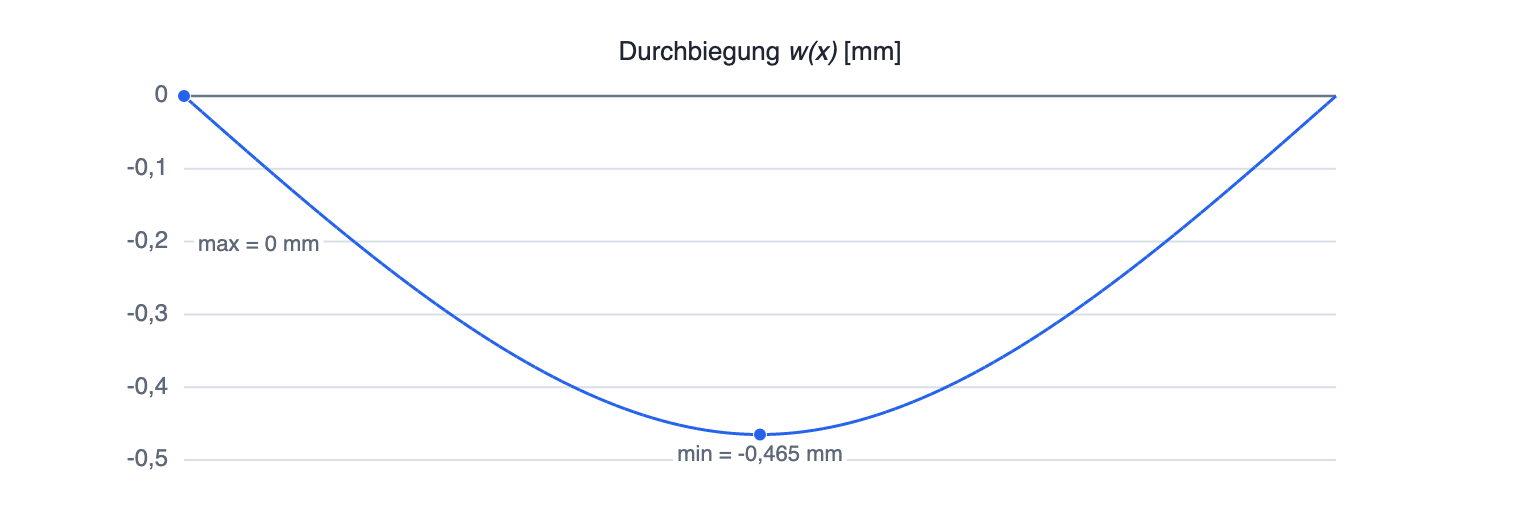
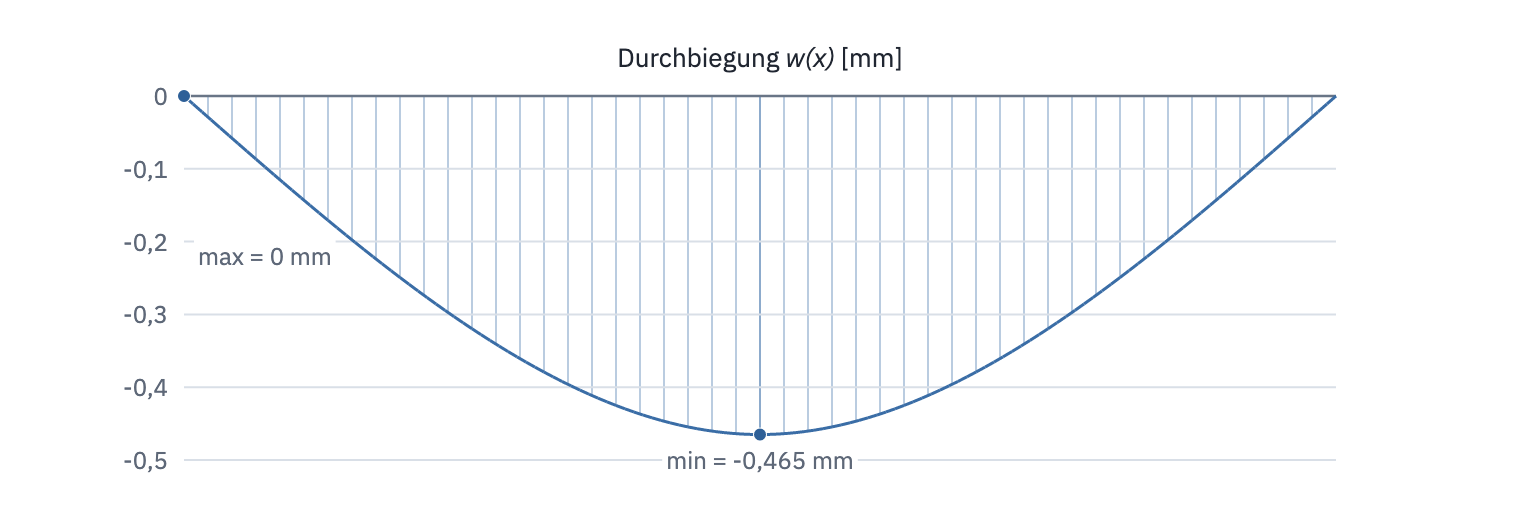
feat: add evenly spaced hatching to result diagrams

diff --git a/tests/SpanDraft.Tests/DesktopResultDiagramControlTests.cs b/tests/SpanDraft.Tests/DesktopResultDiagramControlTests.cs
@@ -25,6 +25,64 @@ namespace SpanDraft.Tests;
 [Collection("Schematic text")]
 public sealed class DesktopResultDiagramControlTests
 {
+    [Theory]
+    [InlineData(new double[] { 2, -2 }, 2)]
+    [InlineData(new double[] { 2, -2, 3, -1 }, 4)]
+    [InlineData(new double[] { 2, 0, 0, -2, 0 }, 2)]
+    [InlineData(new double[] { 0, 1e-10, -1e-10 }, 0)]
+    [InlineData(new double[] { -1, -3, -2 }, 1)]
+    public void SignedRegionsCutAtZeroAndGenerateContainedVerticalVectorHatching(double[] values, int count)
+    {
+        var points = values.Select((value, index) => new ResultDiagramPoint(Length.FromMeters(index),
+            EvaluationSide.Right, value * 1000, new Point(index * 24, 100 - value * 10), value)).ToArray();
+        var regions = ResultDiagramRegions.Create(points, 100);
+        Assert.Equal(count, regions.Count);
+        foreach (var region in regions)
+        {
+            Assert.All(region.Points, point => Assert.True(point.SiValue == 0 || Math.Sign(point.SiValue) == region.Sign));
+            Assert.Equal(region.Points.Max(p => Math.Abs(p.SiValue)), Math.Abs(region.Extremum.SiValue));
+            var lines = ResultDiagramRegions.Hatch(region, 100).ToArray();
+            Assert.NotEmpty(lines);
+            foreach (var (start, end) in lines)
+            {
+                Assert.Equal(start.X, end.X); Assert.Equal(100, start.Y);
+                Assert.InRange(end.X, region.Points[0].Screen.X, region.Points[^1].Screen.X);
+                Assert.True(region.Sign > 0 ? end.Y < 100 : end.Y > 100);
+            }
+        }
+        for (int i = 1; i < regions.Count; i++)
+        {
+            Assert.Equal(regions[i - 1].Points[^1].Screen, regions[i].Points[0].Screen);
+            Assert.Equal(100, regions[i].Points[0].Screen.Y);
+        }
+        if (values.SequenceEqual(new double[] { 2, -2 })) Assert.Equal(12, regions[0].Points[^1].Screen.X);
+    }
+
+    [Fact]
+    public void SectionsOnEitherSideOfJumpNeverShareHatchingAndOneSidedScaleStopsAtZero()
+    {
+        ResultDiagramPoint P(double x, double value) => new(Length.FromMeters(x), EvaluationSide.Right, value,
+            new Point(x * 24, 100 - value * 10), value);
+        var left = Assert.Single(ResultDiagramRegions.Create(new[] { P(0, 2), P(1, 3) }, 100));
+        var right = Assert.Single(ResultDiagramRegions.Create(new[] { P(1, -1), P(2, -2) }, 100));
+        Assert.All(ResultDiagramRegions.Hatch(left, 100), line => Assert.True(line.End.Y < 100));
+        Assert.All(ResultDiagramRegions.Hatch(right, 100), line => Assert.True(line.End.Y > 100));
+        Assert.Equal(0, new ResultDiagramScale(0, 173, 0, 160).LowerTickIndex);
+        Assert.Equal(0, new ResultDiagramScale(-173, 0, 0, 160).UpperTickIndex);
+    }
+
+    [Fact]
+    public void MomentRoundoffAtSupportDoesNotReserveAnEmptyOppositeSignTickInterval()
+    {
+        var document = ReportTestProjects.Create().Document;
+        var result = BeamAnalysis.Analyze(document.ToBeamModel());
+        var presentation = AnalysisPresentationState.FromOutcome(result);
+        var layout = new BeamLayoutState().Update(document, 800, 240)!.Layout;
+        var plot = ResultDiagramProjection.Create(presentation.Result!.Solution, ResultDiagramKind.BendingMoment, layout, 36, 160);
+        Assert.Equal(0, plot.Scale.LowerTickIndex);
+        Assert.Equal(0, plot.Scale.Minimum);
+        Assert.True(plot.Markers.Max(m => m.SiValue) > 0);
+    }
     private static EditorDocument Document() => new(Length.FromMeters(1), ProjectTemplates.Material, ProjectTemplates.Section,
         [new(Guid.NewGuid(), Length.FromMeters(0), SupportType.Fixed, "A")],
         [new EditorPointForce(Guid.NewGuid(), Length.FromMeters(.5), Force.FromNewtons(-1000), "F1")]);
@@ -74,7 +132,7 @@ public sealed class DesktopResultDiagramControlTests
         using (var context = drawing.Open()) diagram.Render(context);
         var dots = drawing.Children.OfType<GeometryDrawing>()
             .Where(d => d.Geometry?.Bounds.Size == new Size(6, 6)).ToArray();
-        Assert.True(diagram.Projection.Markers.Count == dots.Length,
+        Assert.True(diagram.Projection.Markers.Select(m => m.Screen).Concat(diagram.Regions.Select(r => r.Extremum.Screen)).Distinct().Count() == dots.Length,
             string.Join(", ", drawing.Children.TakeLast(6).Select(d => d is GeometryDrawing geometry
                 ? $"{geometry.Geometry?.GetType().Name}: {geometry.Geometry?.Bounds}" : d.GetType().Name)));
         foreach (var marker in diagram.Projection.Markers)

diff --git a/src/SpanDraft.Desktop/Controls/ResultDiagram.cs b/src/SpanDraft.Desktop/Controls/ResultDiagram.cs
@@ -31,8 +31,10 @@ public sealed class ResultDiagram : Control
     public double MarkerFontSize { get => GetValue(MarkerFontSizeProperty); set => SetValue(MarkerFontSizeProperty, value); }
     public ResultDiagramProjection? Projection { get; private set; }
     public IReadOnlyList<ResultDiagramMarkerLabel> MarkerLabels { get; private set; } = [];
+    internal IReadOnlyList<ResultDiagramRegion> Regions { get; private set; } = [];
     private double SecondarySize => AppTypography.Size("SecondarySize");
     private double BodySize => AppTypography.Size("BodySize");
+    private IEnumerable<Point> MarkerPoints => (Projection?.Markers.Select(m => m.Screen) ?? []).Concat(Regions.Select(r => r.Extremum.Screen)).Distinct();
     private ResultPresentationOptions Options => Presentation?.Options ?? ResultPresentationOptions.Default;
     public string Title => TitleText.PlainText;
     public TechnicalText TitleText => (Kind switch
@@ -67,6 +69,7 @@ public sealed class ResultDiagram : Control
                 Projection = Presentation?.Result is { } result && StationLayout is { } layout
                     && Bounds.Width > 0 && Bounds.Height > 48
                     ? ResultDiagramProjection.Create(result.Solution, Kind, layout, 36, Bounds.Height - 48, Options.Profile) : null;
+            Regions = Projection is { } p ? p.Sections.SelectMany(section => ResultDiagramRegions.Create(section, p.Scale.ZeroY)).ToArray() : [];
             _projectedPresentation = Presentation;
             MarkerLabels = Projection is { } projection ? PlaceMarkerLabels(projection) : [];
             InvalidateVisual();
@@ -192,12 +195,16 @@ public sealed class ResultDiagram : Control
             foreach (var label in MarkerLabels)
                 curveClip = new CombinedGeometry(GeometryCombineMode.Exclude, curveClip,
                     new RectangleGeometry(label.Bounds.Inflate(2)));
-            foreach (var marker in projection.Markers)
+            foreach (var marker in MarkerPoints)
                 curveClip = new CombinedGeometry(GeometryCombineMode.Exclude, curveClip,
-                    new EllipseGeometry(new Rect(marker.Screen.X - 3.5, marker.Screen.Y - 3.5, 7, 7)));
+                    new EllipseGeometry(new Rect(marker.X - 3.5, marker.Y - 3.5, 7, 7)));
         }
         using (curveClip is null ? default : context.PushGeometryClip(curveClip))
         {
+            var hatchPen = new Pen(Brush("DiagramHatch"), 1);
+            foreach (var region in Regions)
+                foreach (var line in ResultDiagramRegions.Hatch(region, projection.Scale.ZeroY))
+                    context.DrawLine(hatchPen, line.Start, line.End);
             var gridPen = new Pen(Brush("Border"), 1);
             foreach (var tick in projection.Ticks.Where(t => t.Index != 0))
                 context.DrawLine(gridPen, new(left, tick.ScreenY), new(right, tick.ScreenY));
@@ -207,6 +214,8 @@ public sealed class ResultDiagram : Control
                 for (int i = 1; i < section.Count; i++) context.DrawLine(curvePen, section[i - 1].Screen, section[i].Screen);
             foreach (var jump in projection.Jumps) context.DrawLine(curvePen, jump.Left.Screen, jump.Right.Screen);
         }
+        foreach (var marker in MarkerPoints)
+            context.DrawEllipse(Brush("DiagramExtremum"), new Pen(background, 1), marker, 3, 3);
         foreach (var tick in projection.Ticks)
         {
             using var label = TickText(tick, text);
@@ -222,7 +231,5 @@ public sealed class ResultDiagram : Control
             context.FillRectangle(background, label.Bounds.Inflate(2));
             formatted.Draw(context, label.Bounds.Position);
         }
-        foreach (var marker in projection.Markers)
-            context.DrawEllipse(Brush("DiagramExtremum"), new Pen(background, 1), marker.Screen, 3, 3);
     }
 }

diff --git a/src/SpanDraft.Desktop/Controls/ResultDiagramRegions.cs b/src/SpanDraft.Desktop/Controls/ResultDiagramRegions.cs
@@ -1,0 +1,63 @@
+using Avalonia;
+
+namespace SpanDraft.Desktop.Controls;
+
+internal sealed record ResultDiagramRegion(int Sign, IReadOnlyList<ResultDiagramPoint> Points)
+{
+    internal ResultDiagramPoint Extremum => Points.Aggregate((best, point) => Math.Abs(point.SiValue) > Math.Abs(best.SiValue) ? point : best);
+}
+
+internal static class ResultDiagramRegions
+{
+    internal const double ZeroTolerance = 1e-9;
+    internal const double HatchSpacing = 12;
+
+    internal static IReadOnlyList<ResultDiagramRegion> Create(IReadOnlyList<ResultDiagramPoint> section, double zeroY)
+    {
+        if (section.Count == 0) return [];
+        var signs = section.Select(p => Math.Abs(p.SiValue) < ZeroTolerance ? 0 : Math.Sign(p.SiValue)).ToArray();
+        for (int i = signs.Length - 2; i >= 0; i--) if (signs[i] == 0) signs[i] = signs[i + 1];
+        for (int i = 1; i < signs.Length; i++) if (signs[i] == 0) signs[i] = signs[i - 1];
+        if (signs[0] == 0) return [];
+        var regions = new List<ResultDiagramRegion>();
+        var points = new List<ResultDiagramPoint>();
+        for (int i = 0; i < section.Count; i++)
+        {
+            var point = Zeroed(section[i]);
+            if (i > 0 && signs[i] != signs[i - 1])
+            {
+                var previous = Zeroed(section[i - 1]);
+                double scale = Math.Max(Math.Abs(previous.SiValue), Math.Abs(point.SiValue));
+                double t = Math.Abs(previous.SiValue / scale) / (Math.Abs(previous.SiValue / scale) + Math.Abs(point.SiValue / scale));
+                var crossing = previous with
+                {
+                    Position = SpanDraft.Core.Units.Length.FromMeters(previous.Position.Meters + t * (point.Position.Meters - previous.Position.Meters)),
+                    SiValue = 0, Value = 0, Screen = new(previous.Screen.X + t * (point.Screen.X - previous.Screen.X), zeroY)
+                };
+                points.Add(crossing);
+                regions.Add(new(signs[i - 1], points.ToArray()));
+                points = [crossing];
+            }
+            points.Add(point);
+        }
+        regions.Add(new(signs[^1], points.ToArray()));
+        return regions.Where(r => r.Points.Any(p => Math.Abs(p.SiValue) >= ZeroTolerance)).ToArray();
+
+        ResultDiagramPoint Zeroed(ResultDiagramPoint point) => Math.Abs(point.SiValue) < ZeroTolerance
+            ? point with { SiValue = 0, Value = 0, Screen = new(point.Screen.X, zeroY) } : point;
+    }
+
+    internal static IEnumerable<(Point Start, Point End)> Hatch(ResultDiagramRegion region, double zeroY)
+    {
+        var points = region.Points;
+        int segment = 1;
+        for (double x = Math.Ceiling(points[0].Screen.X / HatchSpacing) * HatchSpacing; x <= points[^1].Screen.X; x += HatchSpacing)
+        {
+            while (segment < points.Count - 1 && points[segment].Screen.X < x) segment++;
+            var a = points[segment - 1].Screen; var b = points[segment].Screen;
+            if (b.X <= a.X) continue;
+            double y = a.Y + (x - a.X) / (b.X - a.X) * (b.Y - a.Y);
+            if (y != zeroY) yield return (new(x, zeroY), new(x, y));
+        }
+    }
+}

diff --git a/src/SpanDraft.Desktop/Controls/ResultDiagramProjection.cs b/src/SpanDraft.Desktop/Controls/ResultDiagramProjection.cs
@@ -152,7 +152,13 @@ public sealed record ResultDiagramProjection(StationLayoutResult StationLayout, 
                   extrema.MinimumBendingMoment.Position, extrema.MaximumBendingMoment.Position,
                   extrema.MinimumBendingMoment.Side, extrema.MaximumBendingMoment.Side)
         };
-        var scale = new ResultDiagramScale(unit.FromSi(minimumSi), unit.FromSi(maximumSi), plotTop, plotHeight);
+        // A negligible opposite-sign roundoff tail must not reserve an entire nice-tick interval.
+        // Keep genuinely small diagrams and all original samples/analytic extrema intact.
+        double plotMinimum = minimumSi < 0 && maximumSi > 0 && -minimumSi < ResultDiagramRegions.ZeroTolerance
+            && -minimumSi / maximumSi < 1e-12 ? 0 : minimumSi;
+        double plotMaximum = maximumSi > 0 && minimumSi < 0 && maximumSi < ResultDiagramRegions.ZeroTolerance
+            && maximumSi / -minimumSi < 1e-12 ? 0 : maximumSi;
+        var scale = new ResultDiagramScale(unit.FromSi(plotMinimum), unit.FromSi(plotMaximum), plotTop, plotHeight);
         // Keep the solver's selected representative and side, including zeros and ties.
         // The analytic value places the dot on the corresponding one-sided limit.
         bool isConstant = minimumSi == maximumSi;
